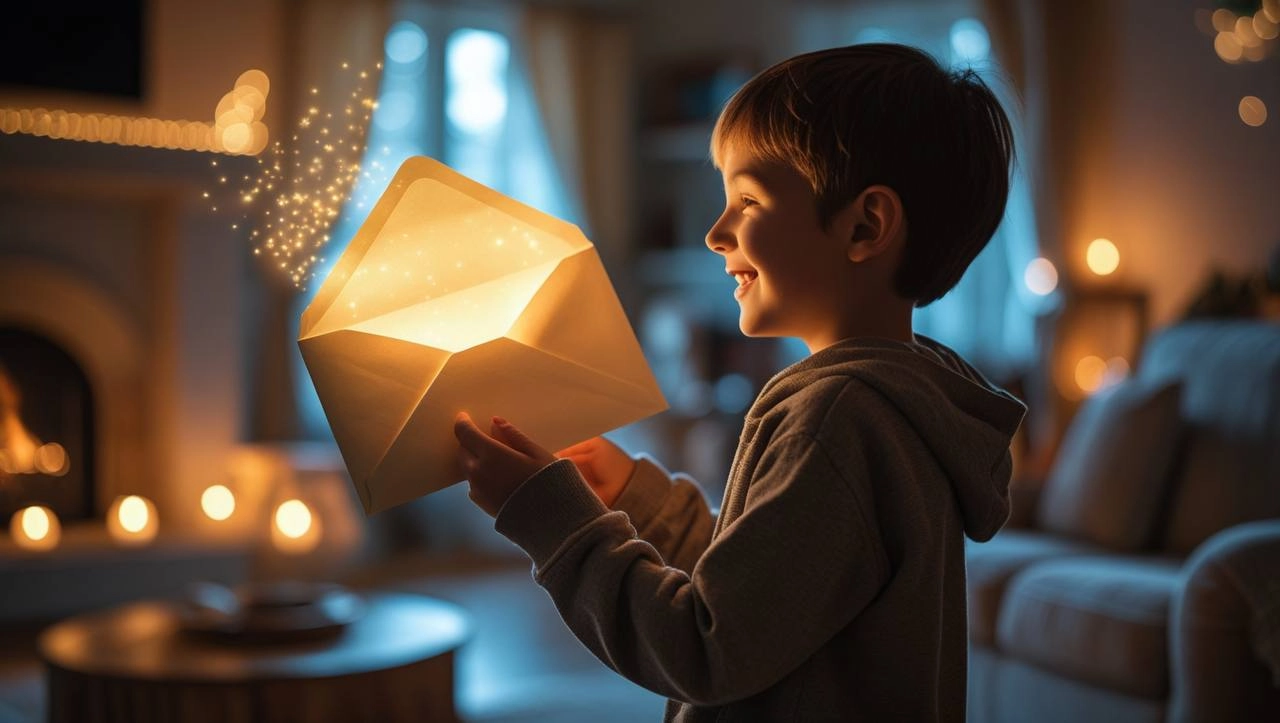
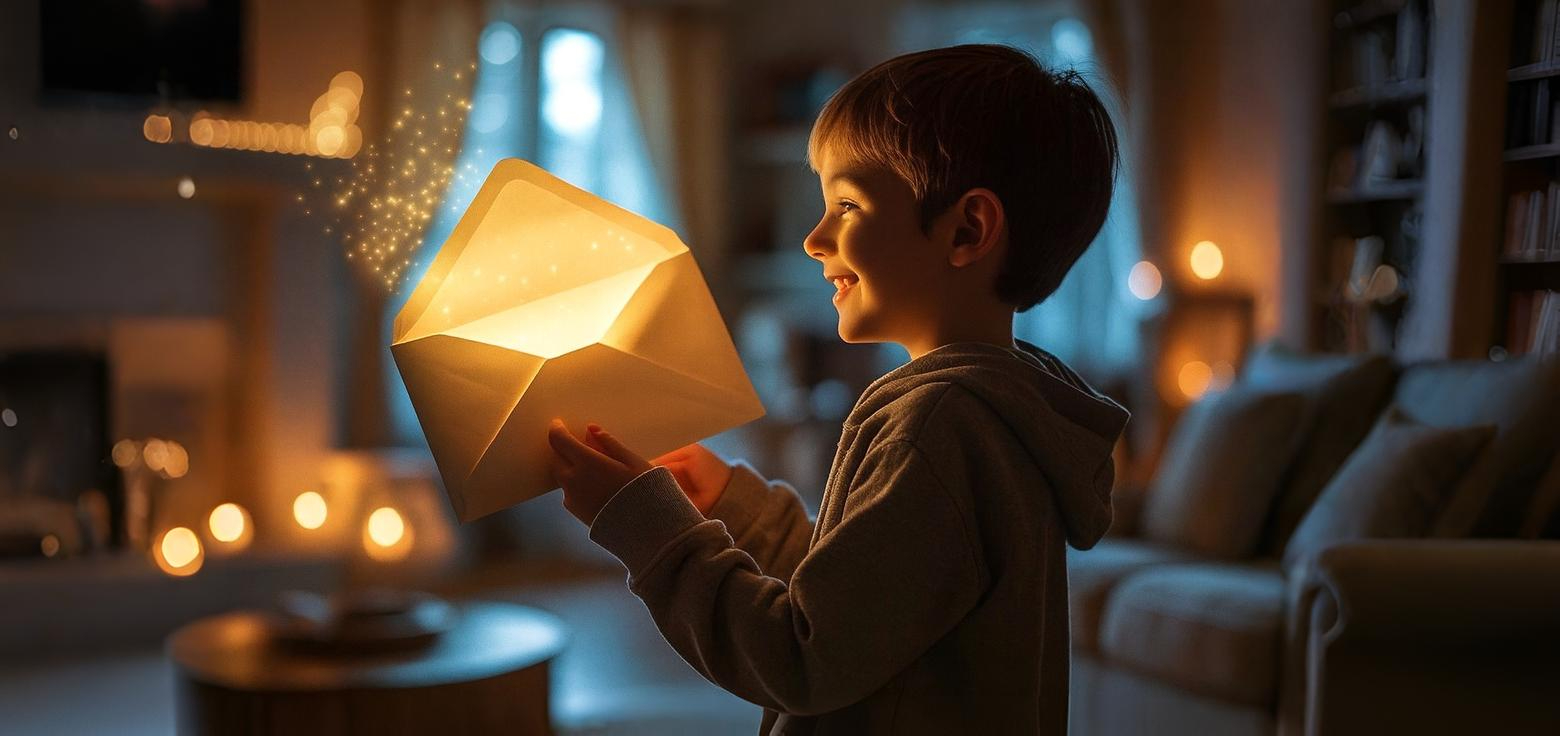
feat: change hero.webp image

diff --git a/styles/style.css b/styles/style.css
@@ -352,6 +352,17 @@ button {
     color: var(--color-white);
 }
 
+.hero::before {
+    content: '';
+    position: absolute;
+    z-index: 0;
+    top: 0;
+    left: 0;
+    width: 100%;
+    height: 100%;
+    background-color: rgba(39, 33, 21, 0.4);
+}
+
 .hero__title {
     font-family: var(--font-heading);
     font-size: clamp(32px, 2.604vw, 50px);
